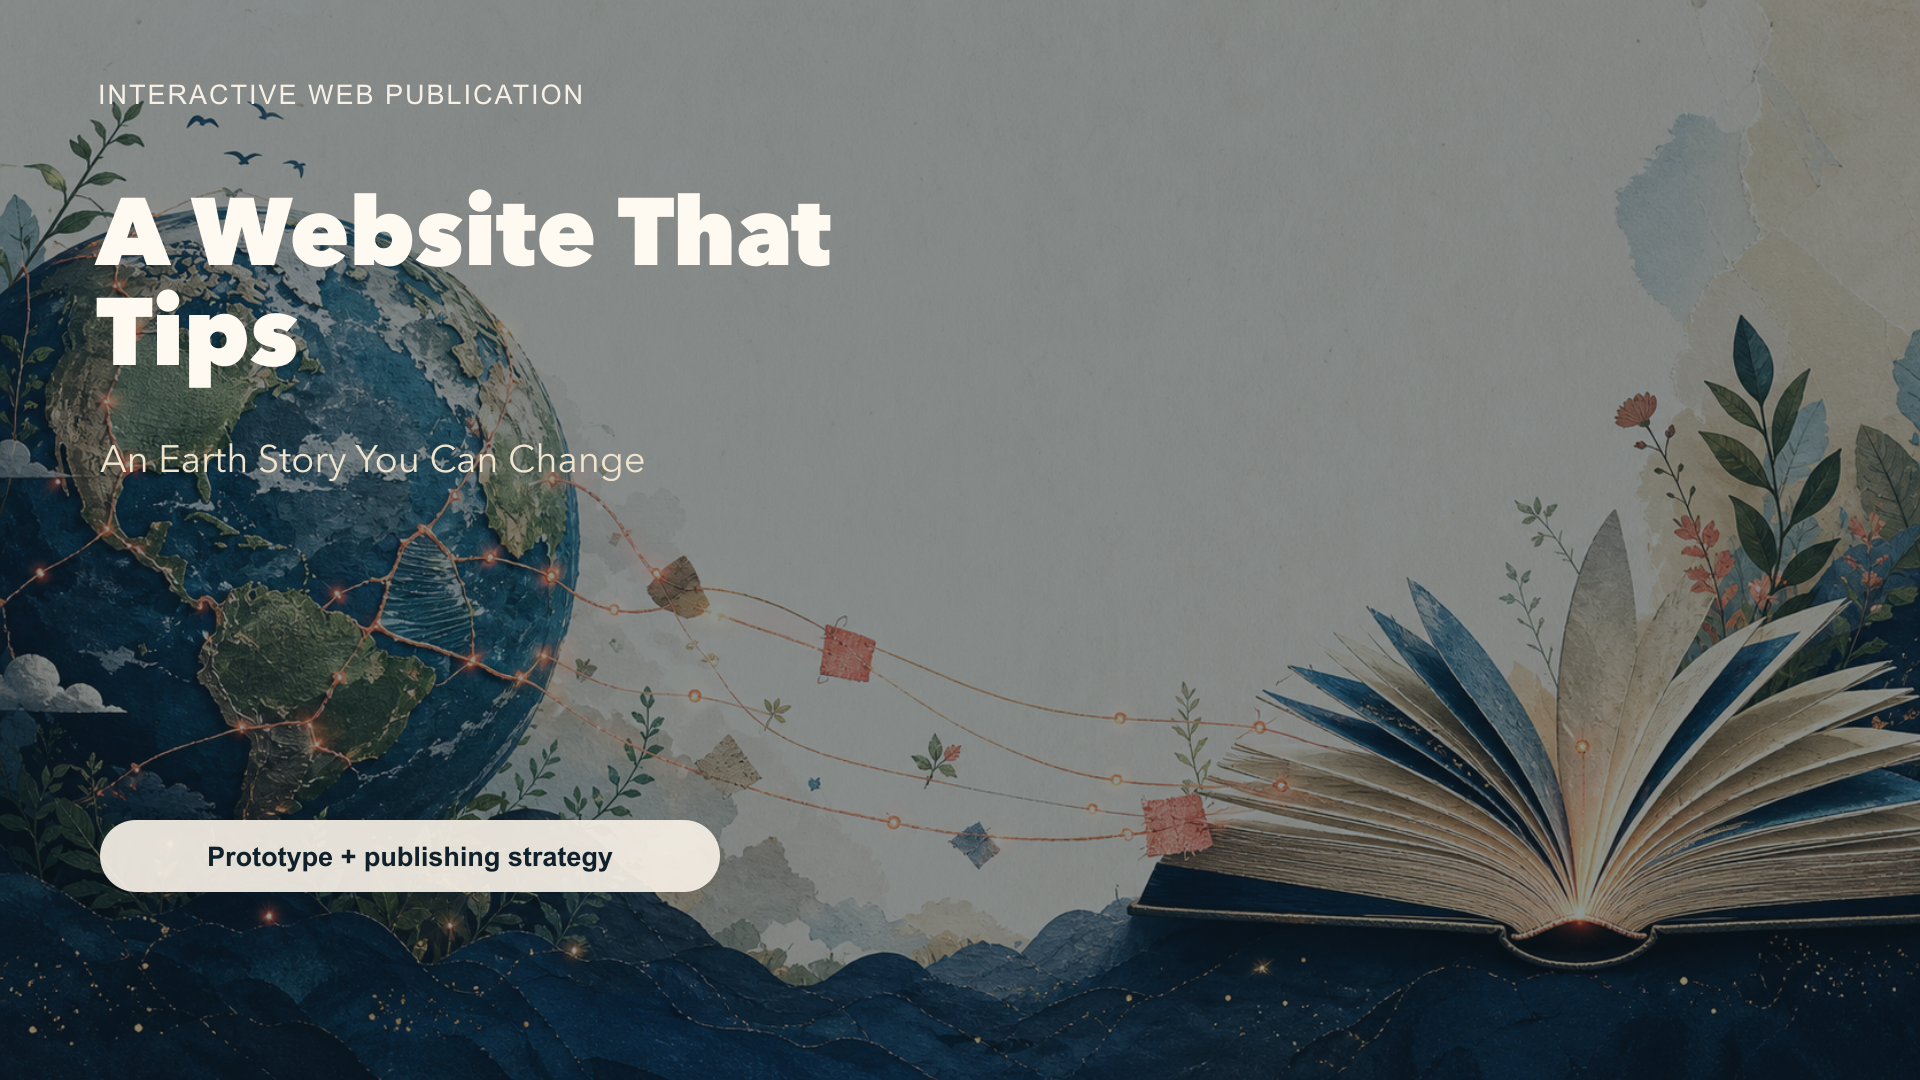
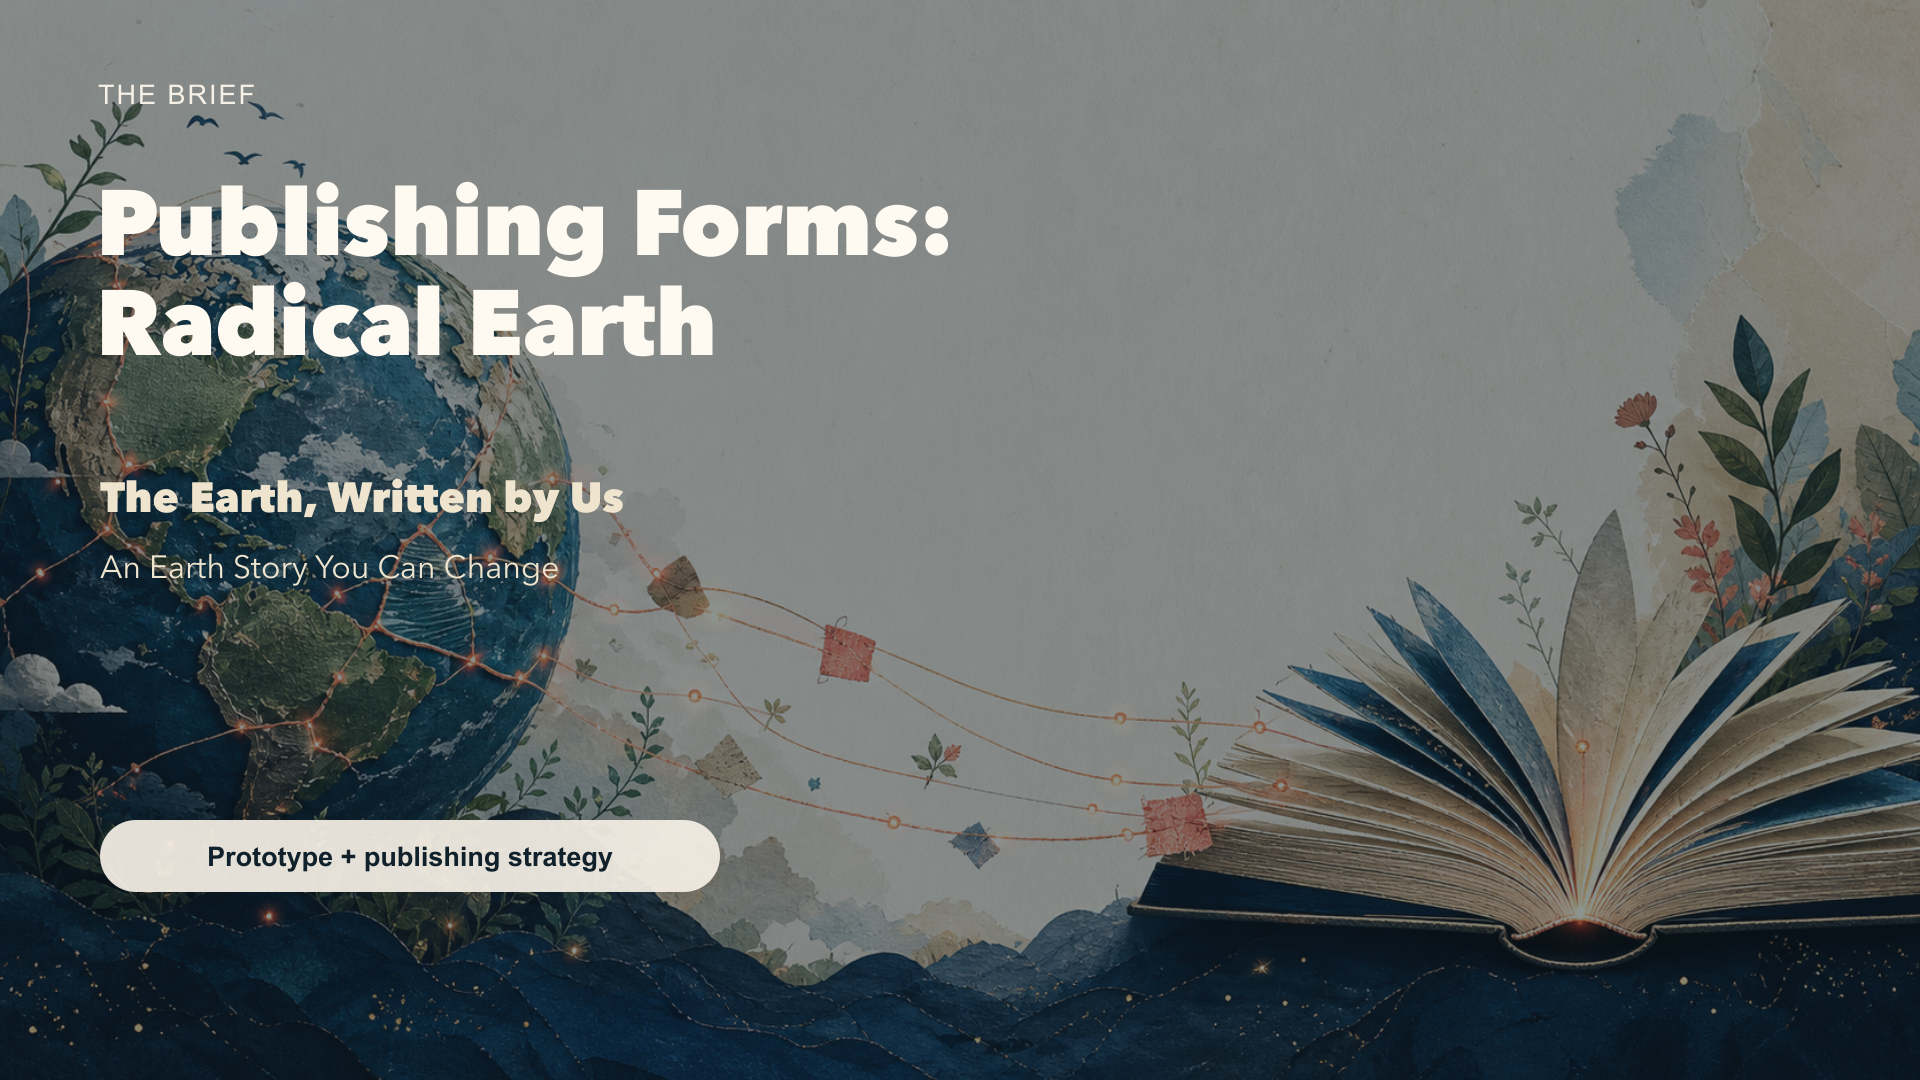
Add radical earth deck export

diff --git a/ppt/output/the-earth-written-by-us-radical-earth.html b/ppt/output/the-earth-written-by-us-radical-earth.html
@@ -1,0 +1,199 @@
+<!doctype html>
+<html lang="en">
+<head>
+  <meta charset="utf-8" />
+  <meta name="viewport" content="width=device-width, initial-scale=1" />
+  <title>Publishing Forms: Radical Earth — The Earth, Written by Us</title>
+  <style>
+    :root {
+      color-scheme: light;
+      --bg: #181f22;
+      --paper: #f6f0e6;
+      --ink: #10212b;
+      --muted: #6b767a;
+    }
+    * { box-sizing: border-box; }
+    html { scroll-behavior: smooth; }
+    body {
+      margin: 0;
+      font-family: Inter, "Avenir Next", "Helvetica Neue", Arial, sans-serif;
+      background: var(--bg);
+      color: var(--paper);
+    }
+    .topbar {
+      position: fixed;
+      z-index: 5;
+      top: 0;
+      left: 0;
+      right: 0;
+      display: flex;
+      justify-content: space-between;
+      align-items: center;
+      gap: 16px;
+      padding: 12px 18px;
+      background: rgba(16, 33, 43, 0.82);
+      backdrop-filter: blur(10px);
+      border-bottom: 1px solid rgba(246, 240, 230, 0.12);
+    }
+    .topbar strong { font-size: 15px; letter-spacing: .02em; }
+    .topbar span { color: rgba(246, 240, 230, .74); font-size: 13px; }
+    .deck {
+      min-height: 100vh;
+      scroll-snap-type: y mandatory;
+      overflow-y: auto;
+    }
+    .slide {
+      min-height: 100vh;
+      display: grid;
+      place-items: center;
+      padding: 58px 18px 26px;
+      scroll-snap-align: start;
+    }
+    .slide img {
+      width: min(100%, calc((100vh - 94px) * 16 / 9));
+      max-height: calc(100vh - 94px);
+      aspect-ratio: 16 / 9;
+      object-fit: contain;
+      border-radius: 10px;
+      box-shadow: 0 24px 70px rgba(0,0,0,.42);
+      background: var(--paper);
+    }
+    .nav {
+      position: fixed;
+      z-index: 6;
+      left: 50%;
+      bottom: 14px;
+      transform: translateX(-50%);
+      display: flex;
+      gap: 5px;
+      padding: 8px;
+      border-radius: 999px;
+      background: rgba(16, 33, 43, 0.82);
+      backdrop-filter: blur(10px);
+    }
+    .nav a {
+      width: 26px;
+      height: 26px;
+      display: grid;
+      place-items: center;
+      border-radius: 50%;
+      text-decoration: none;
+      color: var(--paper);
+      font-size: 12px;
+      font-weight: 700;
+    }
+    .nav a:hover, .nav a:focus-visible {
+      outline: none;
+      background: #f6f0e6;
+      color: var(--ink);
+    }
+    .hint { display: inline; }
+    @media (max-width: 760px) {
+      .topbar { align-items: flex-start; flex-direction: column; padding: 10px 14px; }
+      .hint { display: none; }
+      .slide { padding-top: 76px; }
+      .nav { max-width: calc(100vw - 24px); overflow-x: auto; }
+    }
+    @media print {
+      body { background: white; }
+      .topbar, .nav { display: none; }
+      .deck { overflow: visible; }
+      .slide {
+        min-height: auto;
+        padding: 0;
+        page-break-after: always;
+      }
+      .slide img {
+        width: 100%;
+        max-height: none;
+        border-radius: 0;
+        box-shadow: none;
+      }
+    }
+  </style>
+</head>
+<body>
+  <header class="topbar">
+    <strong>Publishing Forms: Radical Earth</strong>
+    <span>The Earth, Written by Us <span class="hint">· use ← / → keys to navigate</span></span>
+  </header>
+  <main class="deck">
+<section class="slide" id="slide-01" aria-label="Slide 1 of 16">
+        <img src="../slides-v2/slide-01.png" alt="Slide 1" />
+      </section>
+<section class="slide" id="slide-02" aria-label="Slide 2 of 16">
+        <img src="../slides-v2/slide-02.png" alt="Slide 2" />
+      </section>
+<section class="slide" id="slide-03" aria-label="Slide 3 of 16">
+        <img src="../slides-v2/slide-03.png" alt="Slide 3" />
+      </section>
+<section class="slide" id="slide-04" aria-label="Slide 4 of 16">
+        <img src="../slides-v2/slide-04.png" alt="Slide 4" />
+      </section>
+<section class="slide" id="slide-05" aria-label="Slide 5 of 16">
+        <img src="../slides-v2/slide-05.png" alt="Slide 5" />
+      </section>
+<section class="slide" id="slide-06" aria-label="Slide 6 of 16">
+        <img src="../slides-v2/slide-06.png" alt="Slide 6" />
+      </section>
+<section class="slide" id="slide-07" aria-label="Slide 7 of 16">
+        <img src="../slides-v2/slide-07.png" alt="Slide 7" />
+      </section>
+<section class="slide" id="slide-08" aria-label="Slide 8 of 16">
+        <img src="../slides-v2/slide-08.png" alt="Slide 8" />
+      </section>
+<section class="slide" id="slide-09" aria-label="Slide 9 of 16">
+        <img src="../slides-v2/slide-09.png" alt="Slide 9" />
+      </section>
+<section class="slide" id="slide-10" aria-label="Slide 10 of 16">
+        <img src="../slides-v2/slide-10.png" alt="Slide 10" />
+      </section>
+<section class="slide" id="slide-11" aria-label="Slide 11 of 16">
+        <img src="../slides-v2/slide-11.png" alt="Slide 11" />
+      </section>
+<section class="slide" id="slide-12" aria-label="Slide 12 of 16">
+        <img src="../slides-v2/slide-12.png" alt="Slide 12" />
+      </section>
+<section class="slide" id="slide-13" aria-label="Slide 13 of 16">
+        <img src="../slides-v2/slide-13.png" alt="Slide 13" />
+      </section>
+<section class="slide" id="slide-14" aria-label="Slide 14 of 16">
+        <img src="../slides-v2/slide-14.png" alt="Slide 14" />
+      </section>
+<section class="slide" id="slide-15" aria-label="Slide 15 of 16">
+        <img src="../slides-v2/slide-15.png" alt="Slide 15" />
+      </section>
+<section class="slide" id="slide-16" aria-label="Slide 16 of 16">
+        <img src="../slides-v2/slide-16.png" alt="Slide 16" />
+      </section>
+  </main>
+  <nav class="nav" aria-label="Slide navigation"><a href="#slide-01" aria-label="Go to slide 1">1</a><a href="#slide-02" aria-label="Go to slide 2">2</a><a href="#slide-03" aria-label="Go to slide 3">3</a><a href="#slide-04" aria-label="Go to slide 4">4</a><a href="#slide-05" aria-label="Go to slide 5">5</a><a href="#slide-06" aria-label="Go to slide 6">6</a><a href="#slide-07" aria-label="Go to slide 7">7</a><a href="#slide-08" aria-label="Go to slide 8">8</a><a href="#slide-09" aria-label="Go to slide 9">9</a><a href="#slide-10" aria-label="Go to slide 10">10</a><a href="#slide-11" aria-label="Go to slide 11">11</a><a href="#slide-12" aria-label="Go to slide 12">12</a><a href="#slide-13" aria-label="Go to slide 13">13</a><a href="#slide-14" aria-label="Go to slide 14">14</a><a href="#slide-15" aria-label="Go to slide 15">15</a><a href="#slide-16" aria-label="Go to slide 16">16</a></nav>
+  <script>
+    const slides = Array.from(document.querySelectorAll(".slide"));
+    function currentIndex() {
+      const center = window.scrollY + window.innerHeight / 2;
+      let best = 0;
+      let bestDistance = Infinity;
+      slides.forEach((slide, index) => {
+        const middle = slide.offsetTop + slide.offsetHeight / 2;
+        const distance = Math.abs(center - middle);
+        if (distance < bestDistance) {
+          best = index;
+          bestDistance = distance;
+        }
+      });
+      return best;
+    }
+    window.addEventListener("keydown", (event) => {
+      if (!["ArrowRight", "ArrowDown", "PageDown", "ArrowLeft", "ArrowUp", "PageUp", "Home", "End"].includes(event.key)) return;
+      event.preventDefault();
+      let next = currentIndex();
+      if (["ArrowRight", "ArrowDown", "PageDown"].includes(event.key)) next += 1;
+      if (["ArrowLeft", "ArrowUp", "PageUp"].includes(event.key)) next -= 1;
+      if (event.key === "Home") next = 0;
+      if (event.key === "End") next = slides.length - 1;
+      slides[Math.max(0, Math.min(slides.length - 1, next))].scrollIntoView({ behavior: "smooth" });
+    });
+  </script>
+</body>
+</html>
